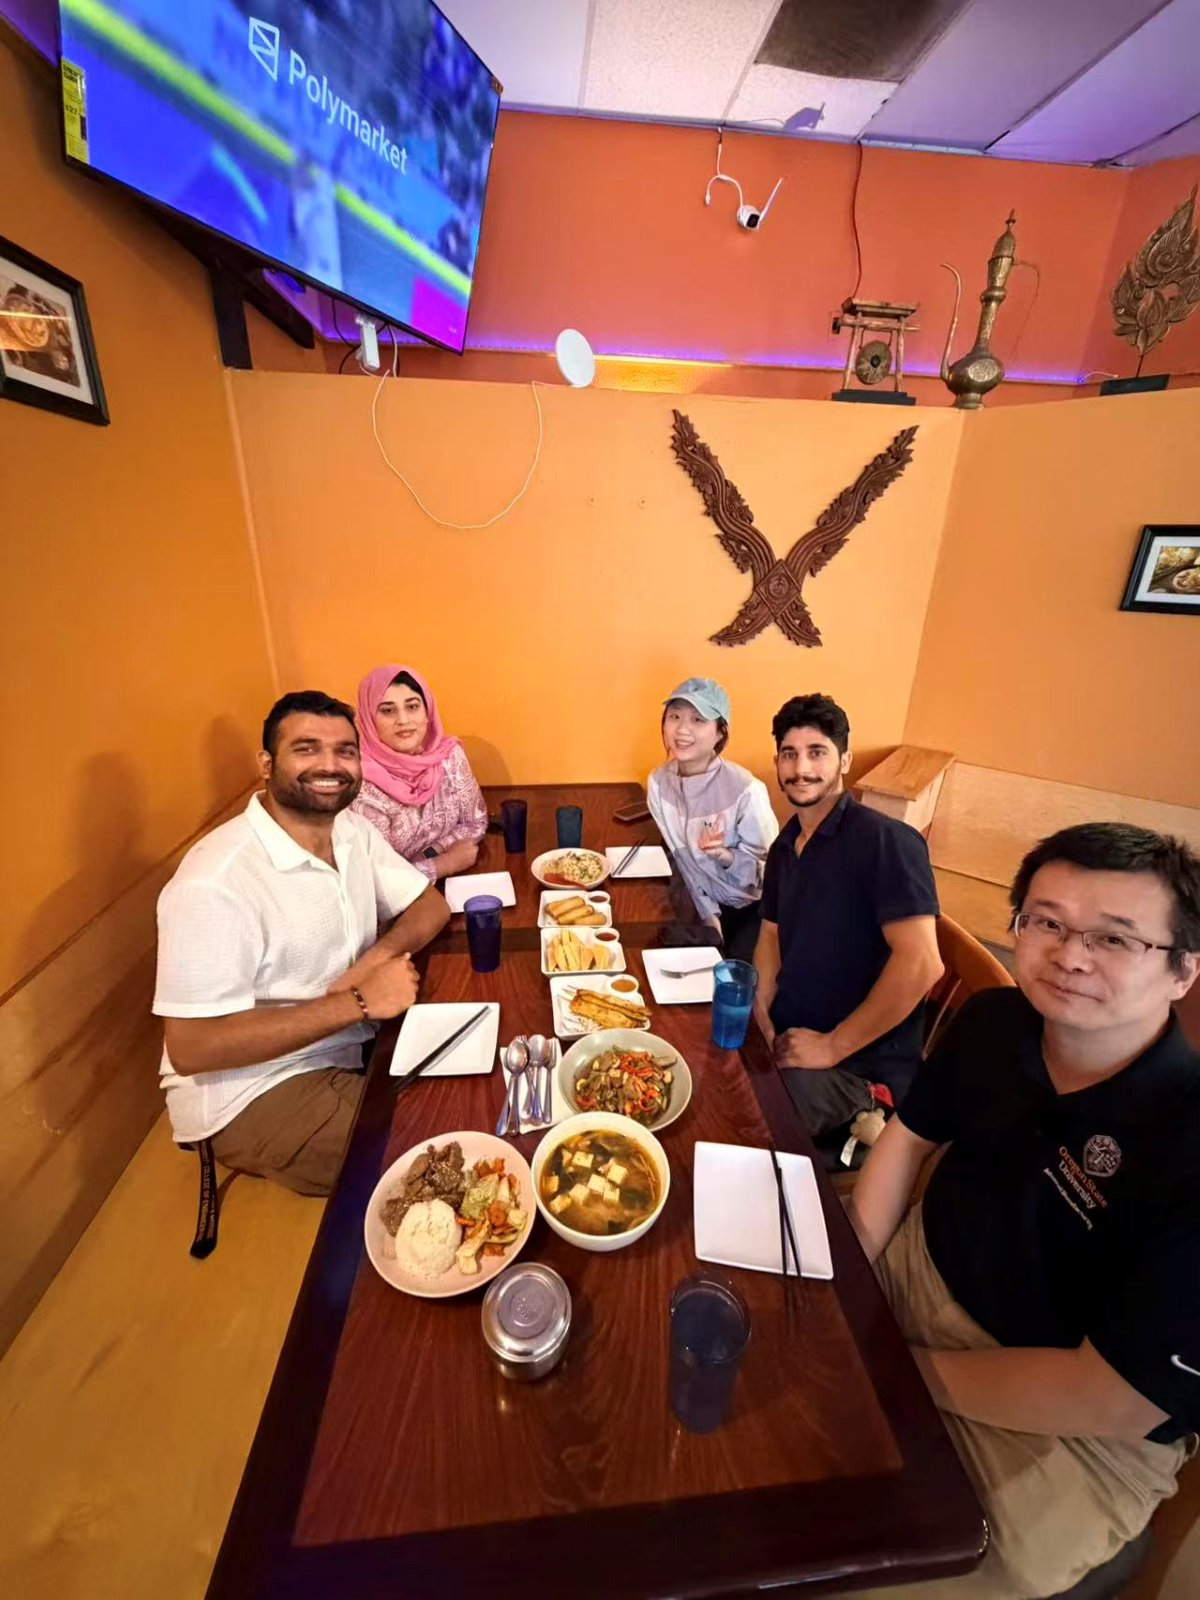
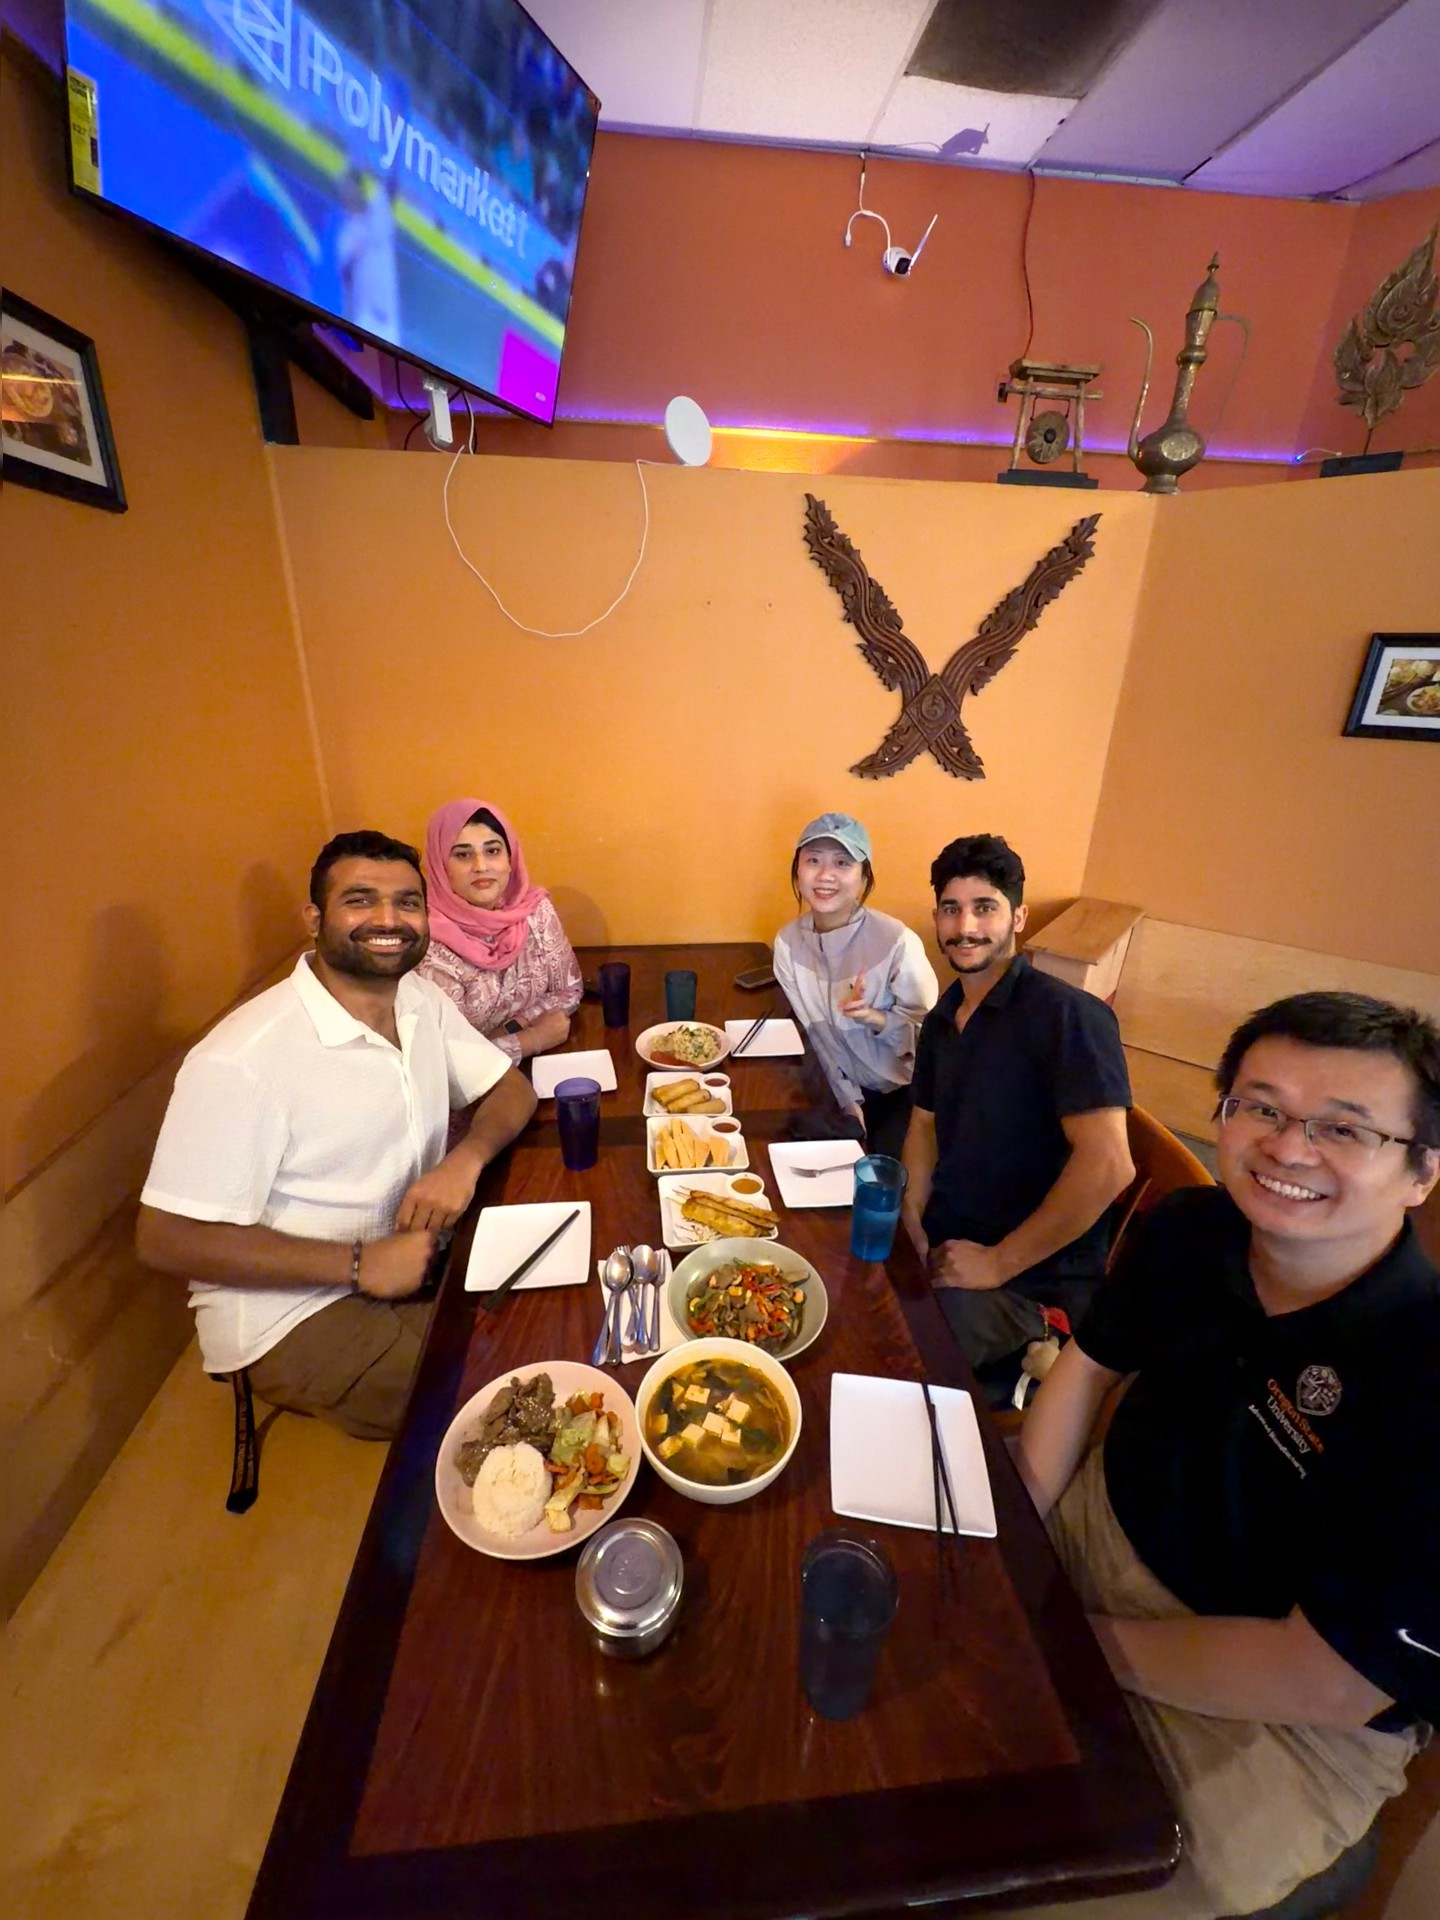
Replace farewell photo with unstretched video frame; move Dr. Junaid Dar to alumni (Picarro, CA)

diff --git a/index.html b/index.html
@@ -253,6 +253,7 @@ section{padding-bottom:40px}
       <div class="agroup">
         <h3>Ph.D. Graduates</h3>
         <ul>
+          <li>Dr. Junaid Dar <span>Ph.D. 2026 · Picarro, CA</span></li>
           <li>Dr. Guang Yang <span>Postdoctoral Researcher, Purdue University</span></li>
           <li>Dr. Halil Tetik <span>Assistant Professor, İzmir Institute of Technology</span></li>
           <li>Dr. Pedram Parandoush <span>Toray Advanced Composites</span></li>
@@ -482,8 +483,6 @@ const PHD=[
    bio:"Ph.D. researcher focused on laser–material interaction in metal additive manufacturing, with experience in L-DED and LPBF systems. His research integrates beam shaping, experimental sensing, and data-driven analysis to study melt pool dynamics and microstructural evolution. Experience includes microscopy-based evaluation of laser-processed materials and development of quantitative analysis methods for complex experimental datasets."},
   {n:"Andre Georges Ponsot",s:"Since June 2024",img:"images/andre-ponsot.jpg",em:"ponsota@oregonstate.edu",gs:"https://scholar.google.com/citations?user=NMAYhBYAAAAJ&hl=en",li:"https://www.linkedin.com/in/andre-ponsot-a30409208",
    bio:"André Georges Ponsot is a Ph.D. student in Materials Science at Oregon State University entering his third year, studying advanced laser control in metal additive manufacturing. His work focuses on using in-situ synchrotron X-ray diffraction to directly probe material dynamics under advanced laser strategies. He is investigating how scan strategies, beam shaping, and laser–material interactions influence melt pool behavior, microstructure evolution, and residual stress development in laser-based processing."},
-  {n:"Junaid Dar",s:"Since January 2023",img:"images/junaid-dar.jpg",em:"darj@oregonstate.edu",gs:"https://scholar.google.com/citations?user=X5bOXO4AAAAJ&hl=en",li:"https://www.linkedin.com/in/junaiddar97/",
-   bio:"Junaid Dar is a 4th-year Ph.D. candidate in the School of Mechanical, Industrial and Manufacturing Engineering at Oregon State University. He completed his master's degree at Gwangju Institute of Science and Technology, South Korea, and his bachelor's at University of Engineering and Technology Lahore. With a strong foundation in manufacturing and mechanical engineering, Junaid is pursuing cutting-edge research in advanced manufacturing processes, with a focus on metal additive manufacturing. His research aim is digital microstructure property control, where he is working on spatial microstructure control and programmable material properties. He has expertise in material characterization, machine vision, and process control, has contributed to several collaborative industry projects, and has published in reputed journals. Currently he is working on 3D printing of continuous graphene structures in a metal matrix using binder jetting, along with developing new scan strategies for laser powder bed fusion (LPBF) \u2014 both for programmable microstructure and property control."}
 ];
 const MS=[
   {n:"Pei-Jung Chen",s:"Since June 2025"},
